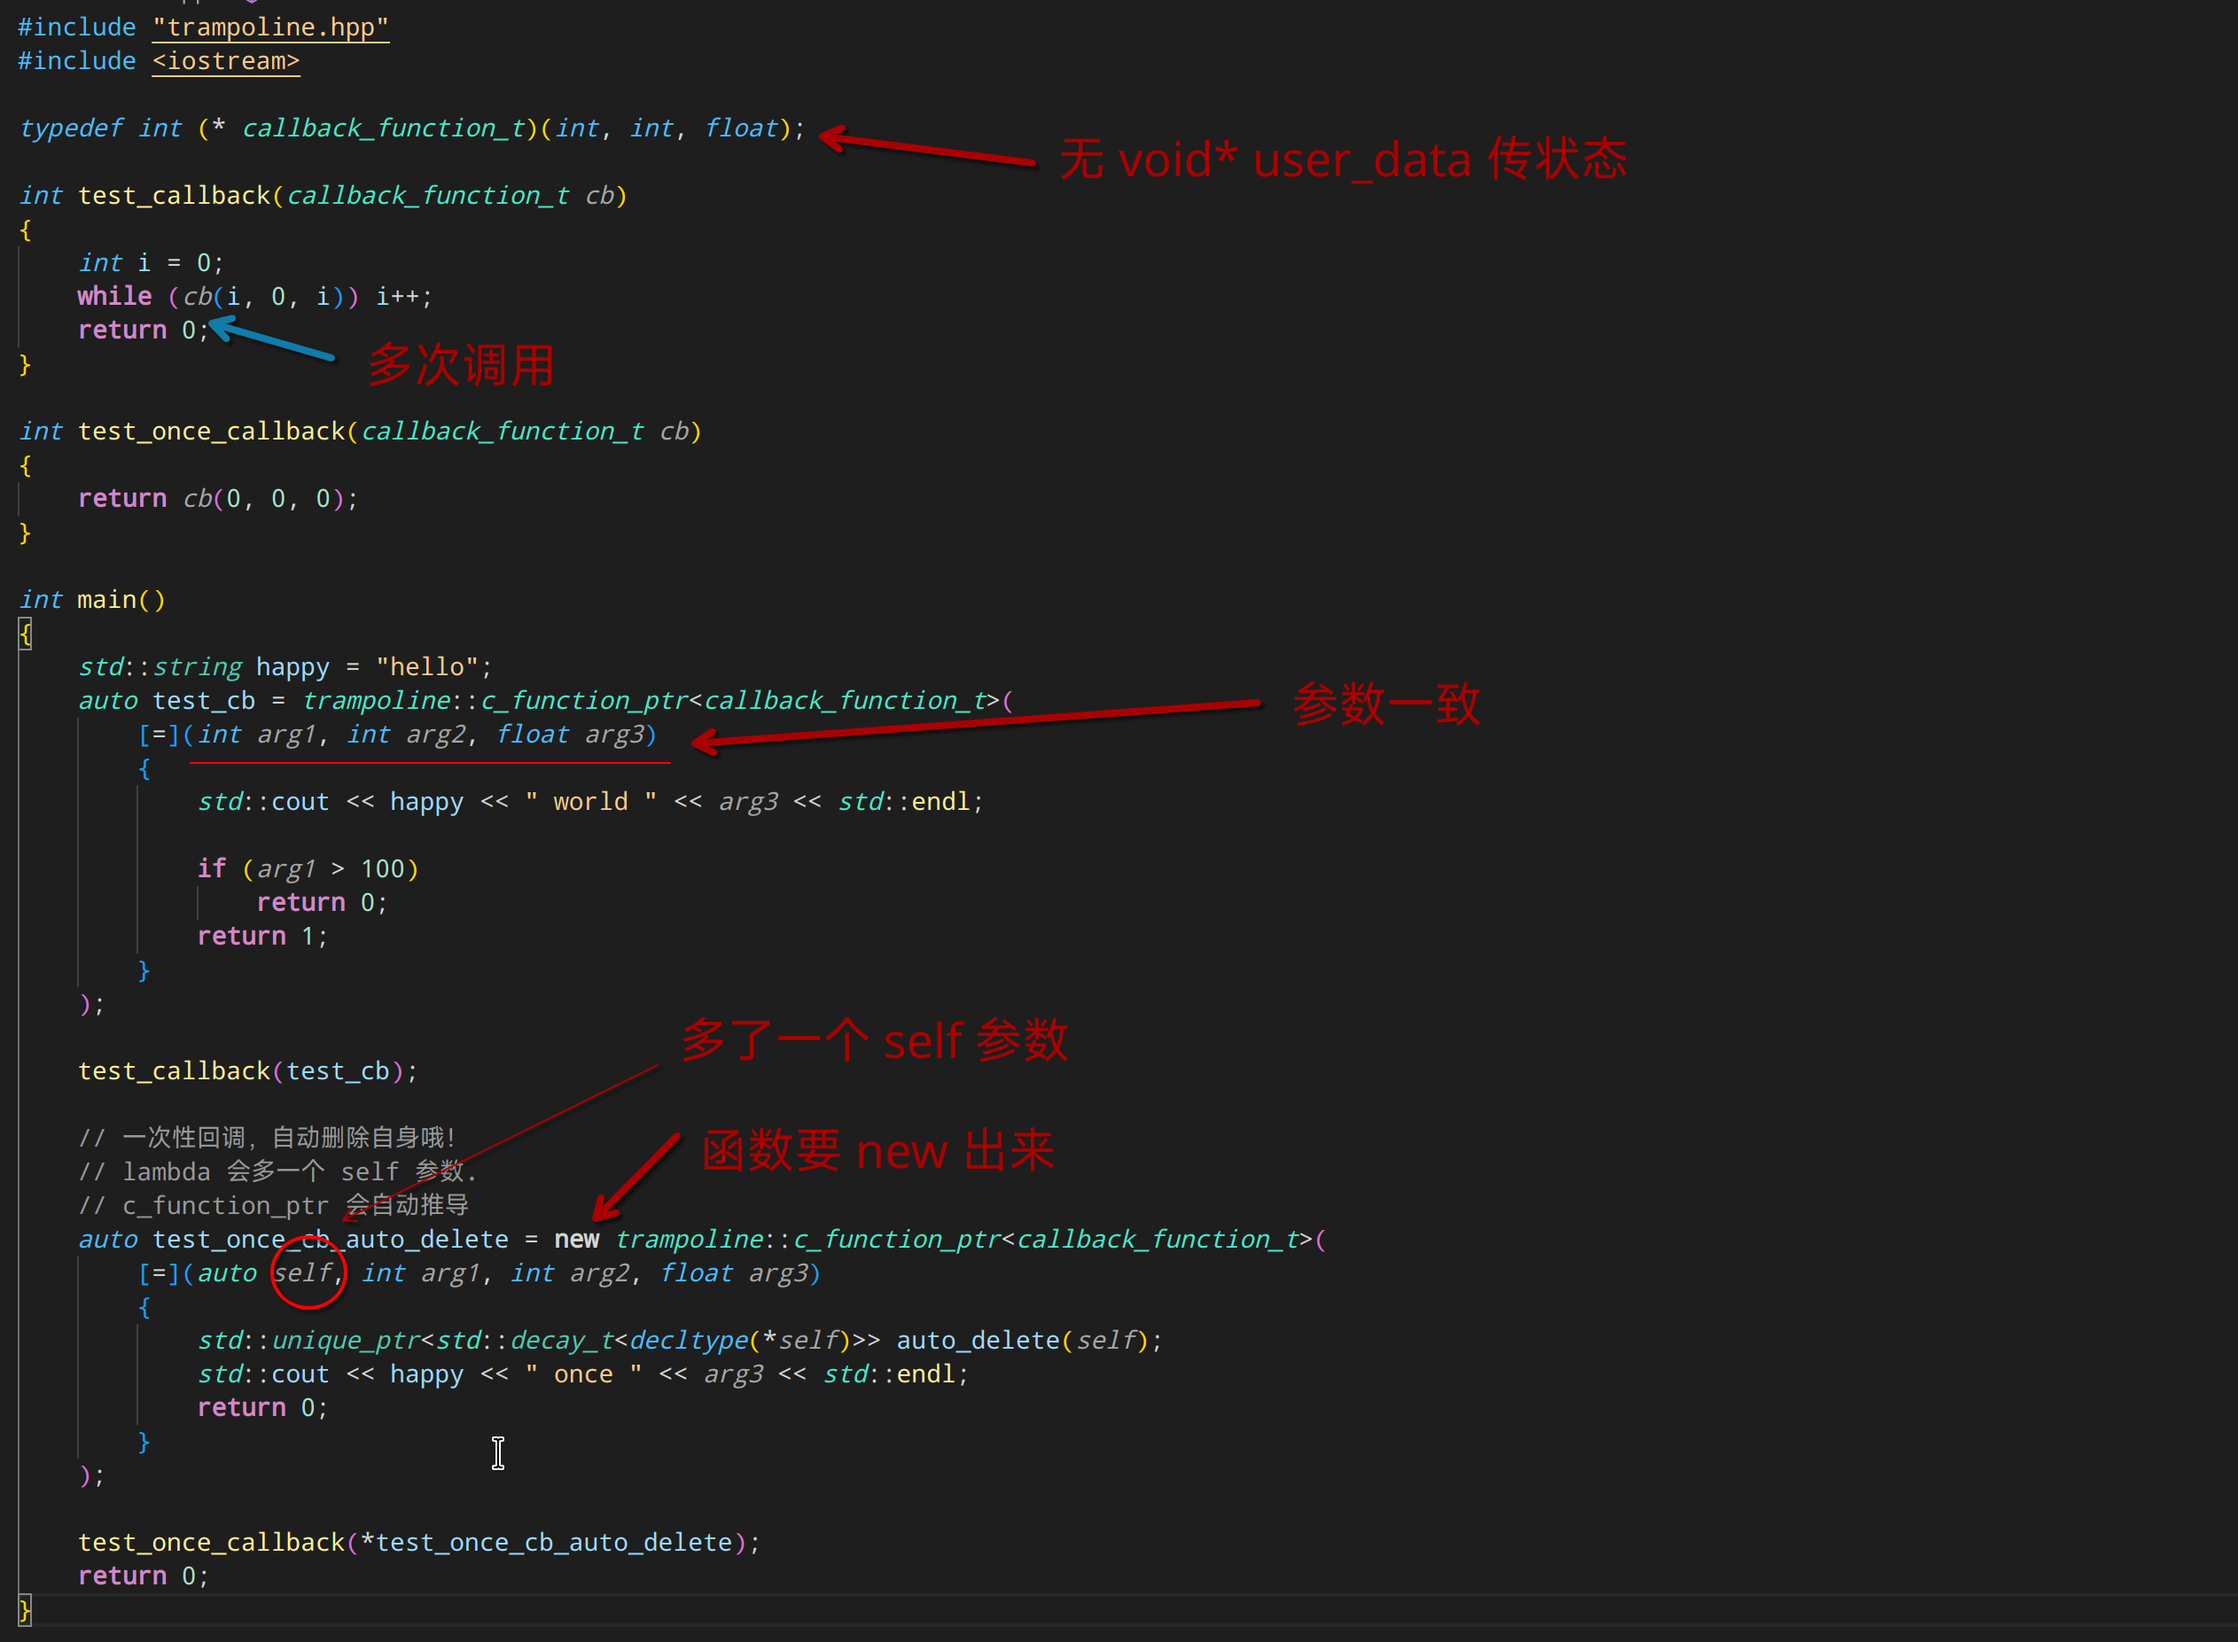
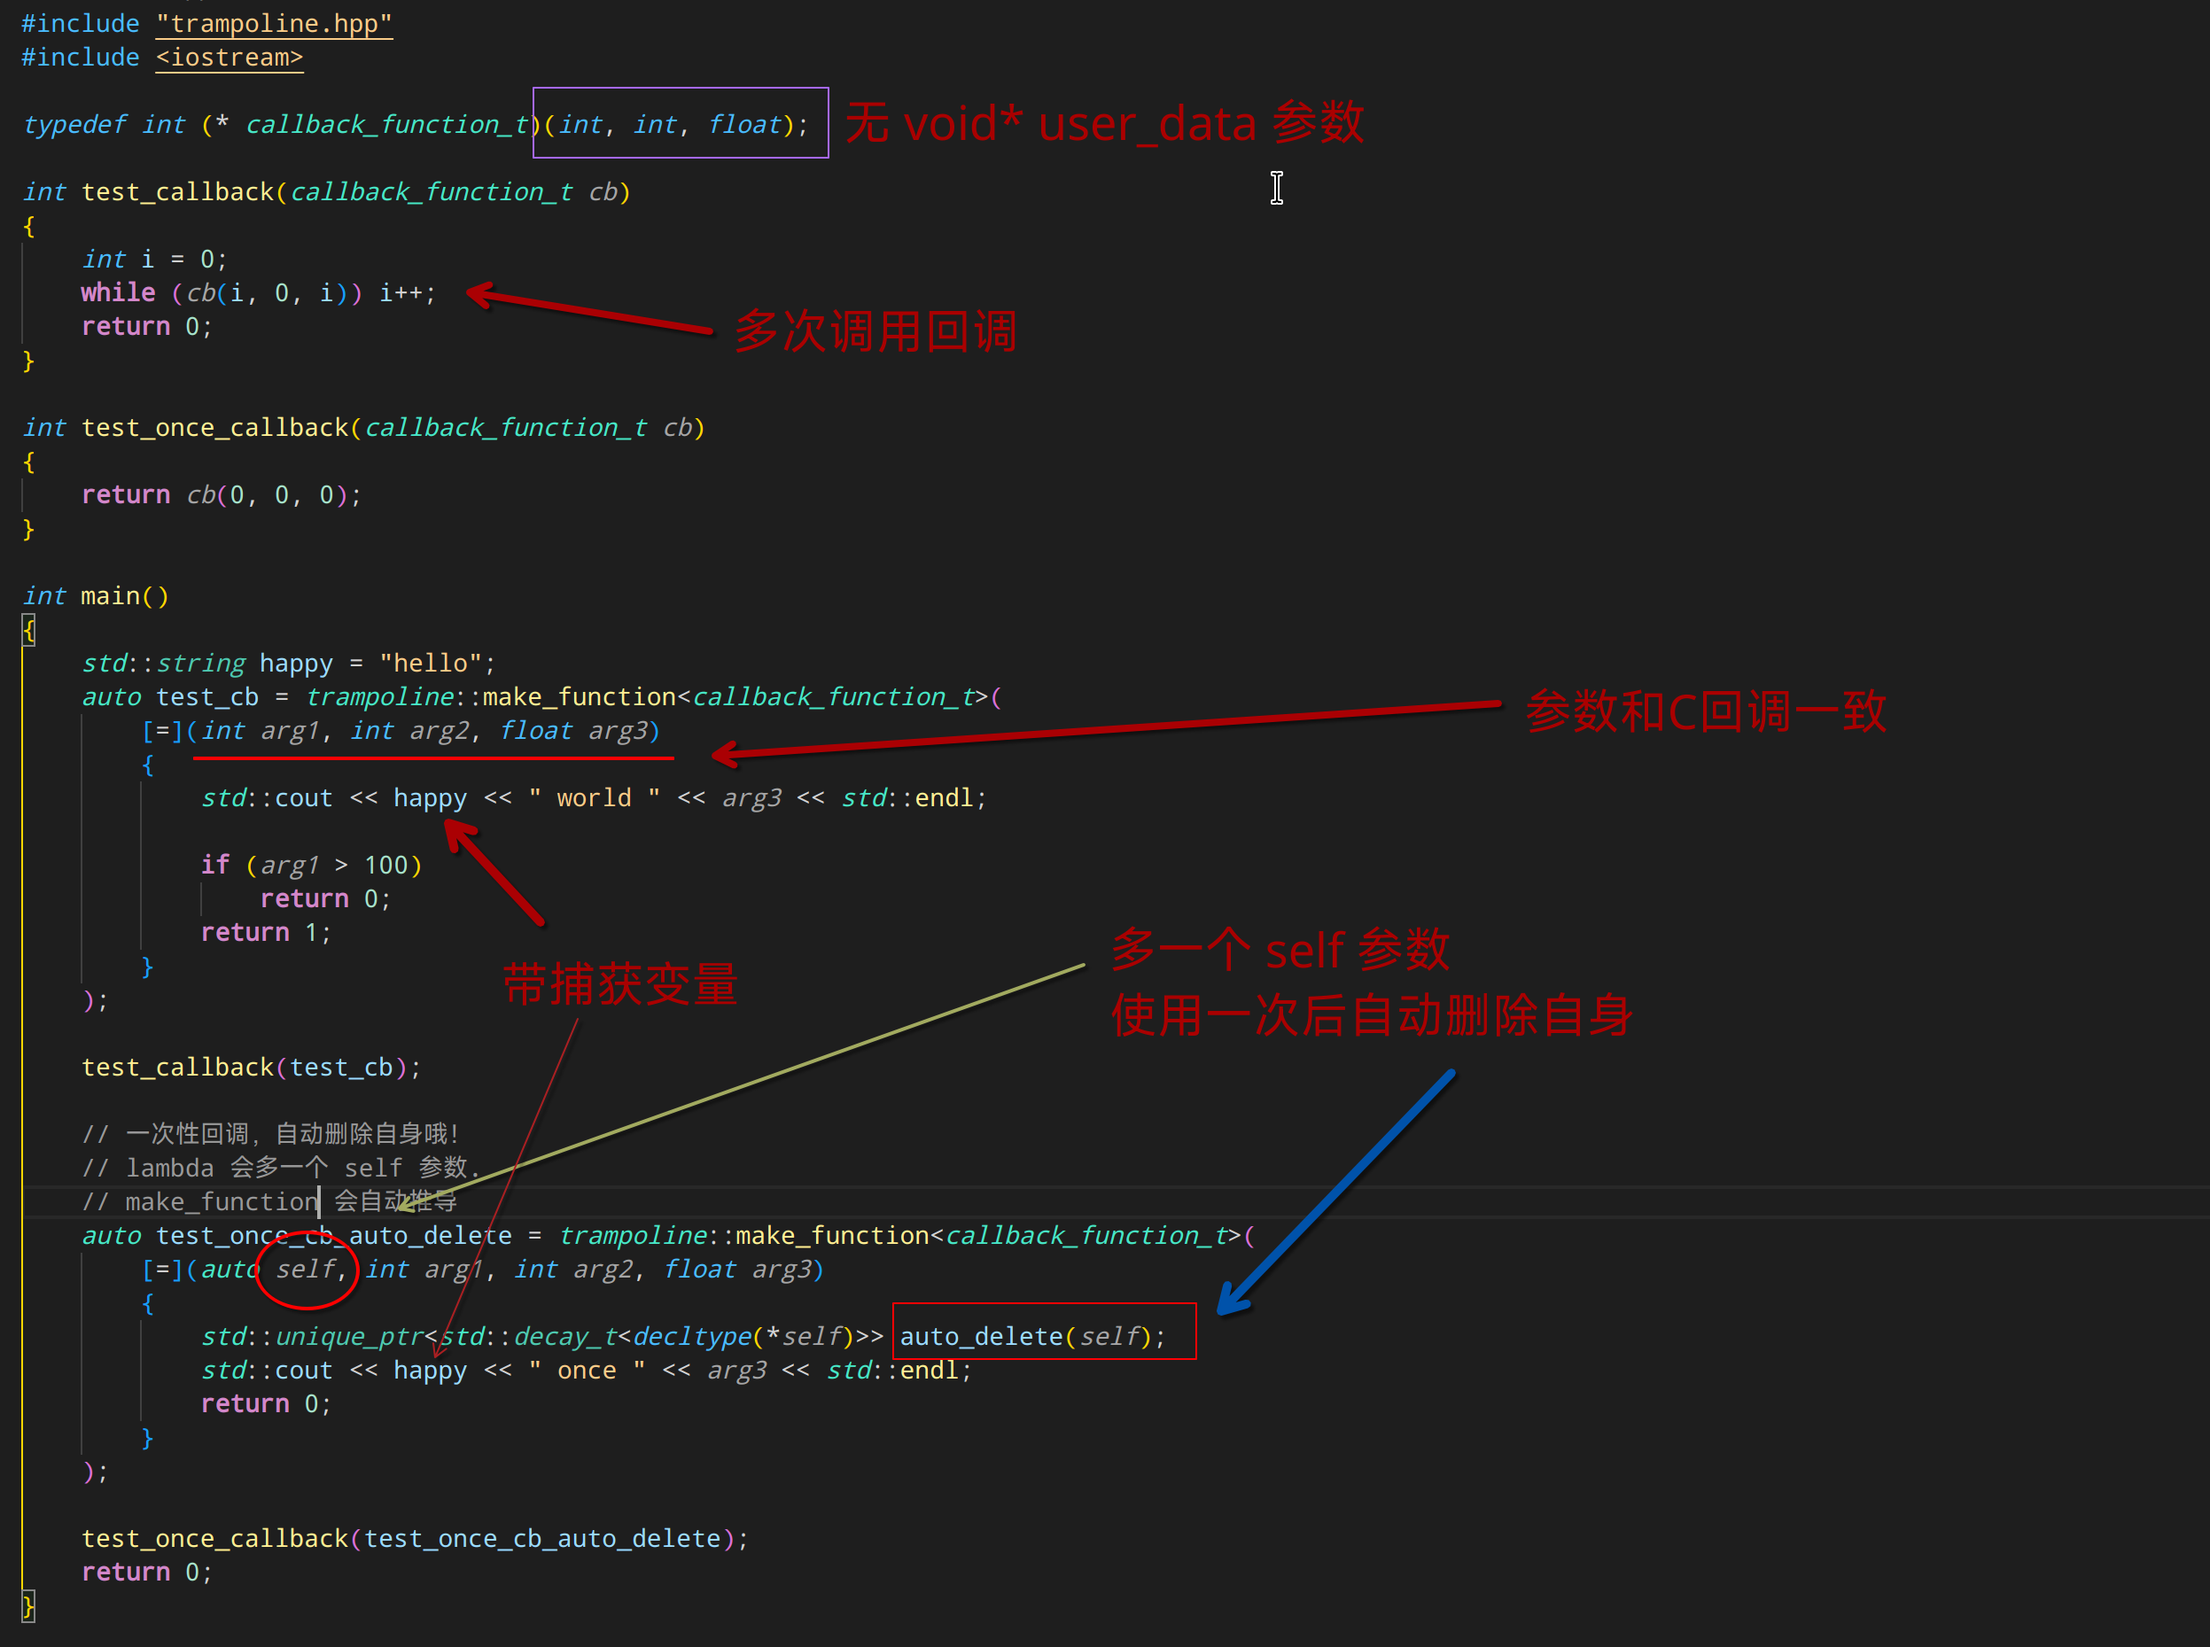
more compile-time logic

diff --git a/include/trampoline.hpp b/include/trampoline.hpp
@@ -12,15 +12,16 @@ namespace trampoline
 	extern "C" void * _asm_get_this_pointer();
 
 	////////////////////////////////////////////////////////////////////
-	template<typename Signature>
+	template<bool dynamic, typename Signature>
 	struct c_function_ptr;
 
-	template<typename Signature>
+	template<bool dynamic, typename Signature>
 	struct c_stdcall_function_ptr;
 
-	class dynamic_function_base
+	class dynamic_function_base;
+
+	struct dynamic_function_base
 	{
-	protected:
 		static constexpr long _jit_code_size = 64;
 
 		unsigned char _jit_code[4000];
@@ -49,14 +50,28 @@ namespace trampoline
 		once_allocator get_allocator();
 	};
 
-	template<typename ParentClass, bool is_stdcall, typename R, typename... Args>
+	template<typename ParentClass, bool hasParentClas, typename R, typename... Args>
+	struct user_function_type_trait;
+
+	template<typename ParentClass, typename R, typename... Args>
+	struct user_function_type_trait<ParentClass, true, R, Args...>
+	{
+		using user_function_type = dr::function<R(ParentClass*, Args...), dynamic_function_base::once_allocator>;
+	};
+
+	template<typename ParentClass, typename R, typename... Args>
+	struct user_function_type_trait<ParentClass, false, R, Args...>
+	{
+		using user_function_type = dr::function<R(Args...), dynamic_function_base::once_allocator>;
+	};
+
+	template<typename ParentClass, bool hasParentClassArg, bool is_stdcall, typename R, typename... Args>
 	class dynamic_function : public dynamic_function_base
 	{
 		dynamic_function(dynamic_function&&) = delete;
 		dynamic_function(dynamic_function&) = delete;
 
-		using user_function_no_this_type = dr::function<R(Args...), once_allocator>;
-		using user_function_with_this_type = dr::function<R(ParentClass*, Args...), once_allocator>;
+		using user_function_type = typename user_function_type_trait<ParentClass, hasParentClassArg, R, Args...>::user_function_type;
 
 		void* operator new(std::size_t size)
 		{
@@ -68,15 +83,7 @@ namespace trampoline
 			return ExecutableAllocator{}.deallocate(ptr, size);
 		}
 
-		template<typename LambdaFunction> requires std::convertible_to<LambdaFunction, user_function_no_this_type>
-		dynamic_function(ParentClass* parent, LambdaFunction&& lambda)
-			: parent(parent)
-			, user_function_no_this(std::forward<LambdaFunction>(lambda), get_allocator())
-		{
-			attach_trampoline();
-		}
-
-		template<typename LambdaFunction> requires std::convertible_to<LambdaFunction, user_function_with_this_type>
+		template<typename LambdaFunction>
 		dynamic_function(ParentClass* parent, LambdaFunction&& lambda)
 			: parent(parent)
 			, user_function(std::forward<LambdaFunction>(lambda), get_allocator())
@@ -143,24 +150,29 @@ namespace trampoline
 
 		R call_user_function(Args... args) noexcept
 		{
-			if (user_function)
+			if constexpr (hasParentClassArg)
+			{
 				return user_function(parent, args...);
-			return user_function_no_this(args...);
+			}
+			else
+			{
+				return user_function(args...);
+			}
 		}
 
 		friend ParentClass;
 
 		ParentClass* parent;
-		user_function_no_this_type user_function_no_this;
-		user_function_with_this_type user_function;
+		user_function_type user_function;
 	};
 
-	template<typename R, typename... Args>
-	struct c_function_ptr<R(Args...)>
+	template<bool dynamic, typename R, typename... Args>
+	struct c_function_ptr<dynamic, R(Args...)>
 	{
 		typedef R (*function_ptr_t)(Args...);
 
-		using wrapper_class = dynamic_function<c_function_ptr, false, R, Args...>;
+		using wrapper_class = dynamic_function<c_function_ptr, dynamic, false, R, Args...>;
+		using user_function_type = typename wrapper_class::user_function_type;
 
 		wrapper_class* _impl;
 
@@ -184,19 +196,19 @@ namespace trampoline
 		}
 	};
 
-	template<typename R, typename... Args>
-	struct c_function_ptr<R (*)(Args...)> : public c_function_ptr<R(Args...)>
+	template<bool dynamic, typename R, typename... Args>
+	struct c_function_ptr<dynamic, R (*)(Args...)> : public c_function_ptr<dynamic, R(Args...)>
 	{
-		using c_function_ptr<R(Args...)>::c_function_ptr;
+		using c_function_ptr<dynamic, R(Args...)>::c_function_ptr;
 	};
 
 #ifdef _M_IX86
-	template<typename R, typename... Args>
-	struct c_stdcall_function_ptr<R(Args...)>
+	template<bool dynamic, typename R, typename... Args>
+	struct c_stdcall_function_ptr<dynamic, R(Args...)>
 	{
 		typedef R ( __stdcall *function_ptr_t)(Args...);
 
-		using wrapper_class = dynamic_function<c_stdcall_function_ptr, true, R, Args...>;
+		using wrapper_class = dynamic_function<c_stdcall_function_ptr, dynamic, true, R, Args...>;
 
 		wrapper_class* _impl;
 
@@ -221,10 +233,46 @@ namespace trampoline
 		}
 	};
 
-	template<typename R, typename... Args>
-	struct c_function_ptr<R (__stdcall *)(Args...)> : public c_stdcall_function_ptr<R(Args...)>
+	template<bool dynamic, typename R, typename... Args>
+	struct c_function_ptr<dynamic, R (__stdcall *)(Args...)> : public c_stdcall_function_ptr<dynamic, R(Args...)>
 	{
 		using c_stdcall_function_ptr<R(Args...)>::c_stdcall_function_ptr;
 	};
 #endif
+
+	template<typename  CallbackSignature, typename RealCallable>
+	auto make_once_function(RealCallable&& callable)
+	{
+		struct function_wrapper
+		{
+			c_function_ptr<true, CallbackSignature>* wrappered_function;
+
+			using function_ptr_t = typename c_function_ptr<true, CallbackSignature>::function_ptr_t;
+
+			operator function_ptr_t()
+			{
+				return static_cast<function_ptr_t>(*wrappered_function);
+			}
+		};
+
+		auto dynamic_allocated_function = new c_function_ptr<true, CallbackSignature>(std::forward<RealCallable>(callable));
+
+		return function_wrapper{dynamic_allocated_function};
+	}
+
+	template<typename  CallbackSignature, typename RealCallable>
+		requires std::convertible_to<RealCallable, typename c_function_ptr<false, CallbackSignature>::user_function_type>
+	auto make_function(RealCallable&& callable)
+	{
+		return c_function_ptr<false, CallbackSignature>(std::forward<RealCallable>(callable));
+	}
+
+	template<typename  CallbackSignature, typename RealCallable>
+		requires std::convertible_to<RealCallable, typename c_function_ptr<true, CallbackSignature>::user_function_type>
+	auto make_function(RealCallable&& callable)
+	{
+		return make_once_function<CallbackSignature>(std::forward<RealCallable>(callable));
+	}
+
+
 } // namespace trampoline

diff --git a/test/test1/test1.cpp b/test/test1/test1.cpp
@@ -21,12 +21,12 @@ int main()
 {
     std::string happy = "hello";
 
-    auto test_cb2 = trampoline::c_function_ptr<callback_function_t>([=](int arg1, void* arg2, float arg3)
+    auto test_cb2 = trampoline::make_function<callback_function_t>([=](int arg1, void* arg2, float arg3)
     {
         // 这个 lambda 的 c_function_ptr 对象不是 new 出来的，因此可以不需要管理生命期
         std::cout << happy << " world " << arg3 << std::endl;
 
-        auto test_cb3 = new trampoline::c_function_ptr<callback_function_t>([=](auto self, int arg1, void* arg2, float arg3)
+        auto test_cb3 = trampoline::make_function<callback_function_t>([=](auto self, int arg1, void* arg2, float arg3)
         {
             // 这个 lambda 的 c_function_ptr 对象 new 出来的，
             // 因此需要第一个参数必须是 c_function_ptr* 类型，可以使用 auto 替代
@@ -39,7 +39,7 @@ int main()
 
         // return test_multi_callback(test_cb); <---- this will crash!
 
-        return test_once_callback(*test_cb3, arg1);
+        return test_once_callback(test_cb3, arg1);
     });
 
     return test_multi_callback(test_cb2);

diff --git a/test/test2/test2.cpp b/test/test2/test2.cpp
@@ -18,7 +18,7 @@ int test_once_callback(callback_function_t cb)
 int main()
 {
     std::string happy = "hello";
-    auto test_cb = trampoline::c_function_ptr<callback_function_t>(
+    auto test_cb = trampoline::make_function<callback_function_t>(
         [=](int arg1, int arg2, float arg3)
         {
             std::cout << happy << " world " << arg3 << std::endl;
@@ -33,8 +33,8 @@ int main()
 
     // 一次性回调，自动删除自身哦！
     // lambda 会多一个 self 参数.
-    // c_function_ptr 会自动推导
-    auto test_once_cb_auto_delete = new trampoline::c_function_ptr<callback_function_t>(
+    // make_function 会自动推导
+    auto test_once_cb_auto_delete = trampoline::make_function<callback_function_t>(
         [=](auto self, int arg1, int arg2, float arg3)
         {
             std::unique_ptr<std::decay_t<decltype(*self)>> auto_delete(self);
@@ -43,6 +43,6 @@ int main()
         }
     );
 
-    test_once_callback(*test_once_cb_auto_delete);
+    test_once_callback(test_once_cb_auto_delete);
     return 0;
 }

diff --git a/test/testwin32/testwin32.cpp b/test/testwin32/testwin32.cpp
@@ -42,7 +42,7 @@ int main(int argc, char* argv[])
 		WINHTTP_NO_PROXY_NAME,
 		WINHTTP_NO_PROXY_BYPASS, 0);
 
-	auto status_cb = trampoline::c_function_ptr<WINHTTP_STATUS_CALLBACK>(
+	auto status_cb = trampoline::make_function<WINHTTP_STATUS_CALLBACK>(
 		[&](IN HINTERNET hInternet,
 			IN DWORD_PTR dwContext,
 			IN DWORD dwInternetStatus,
